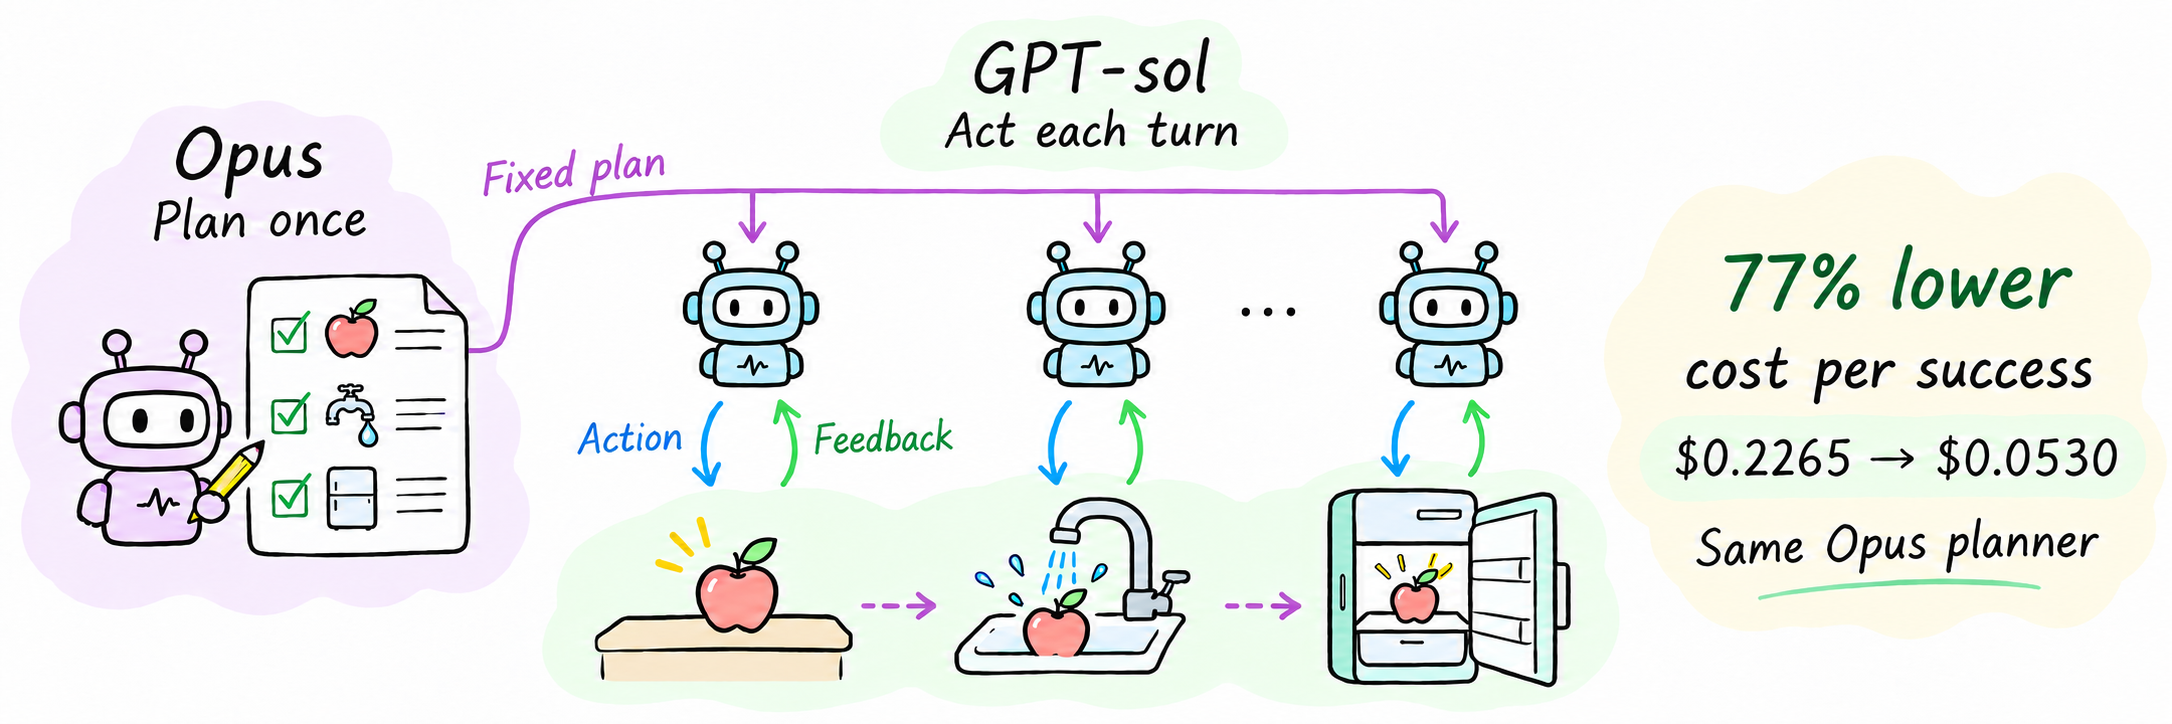
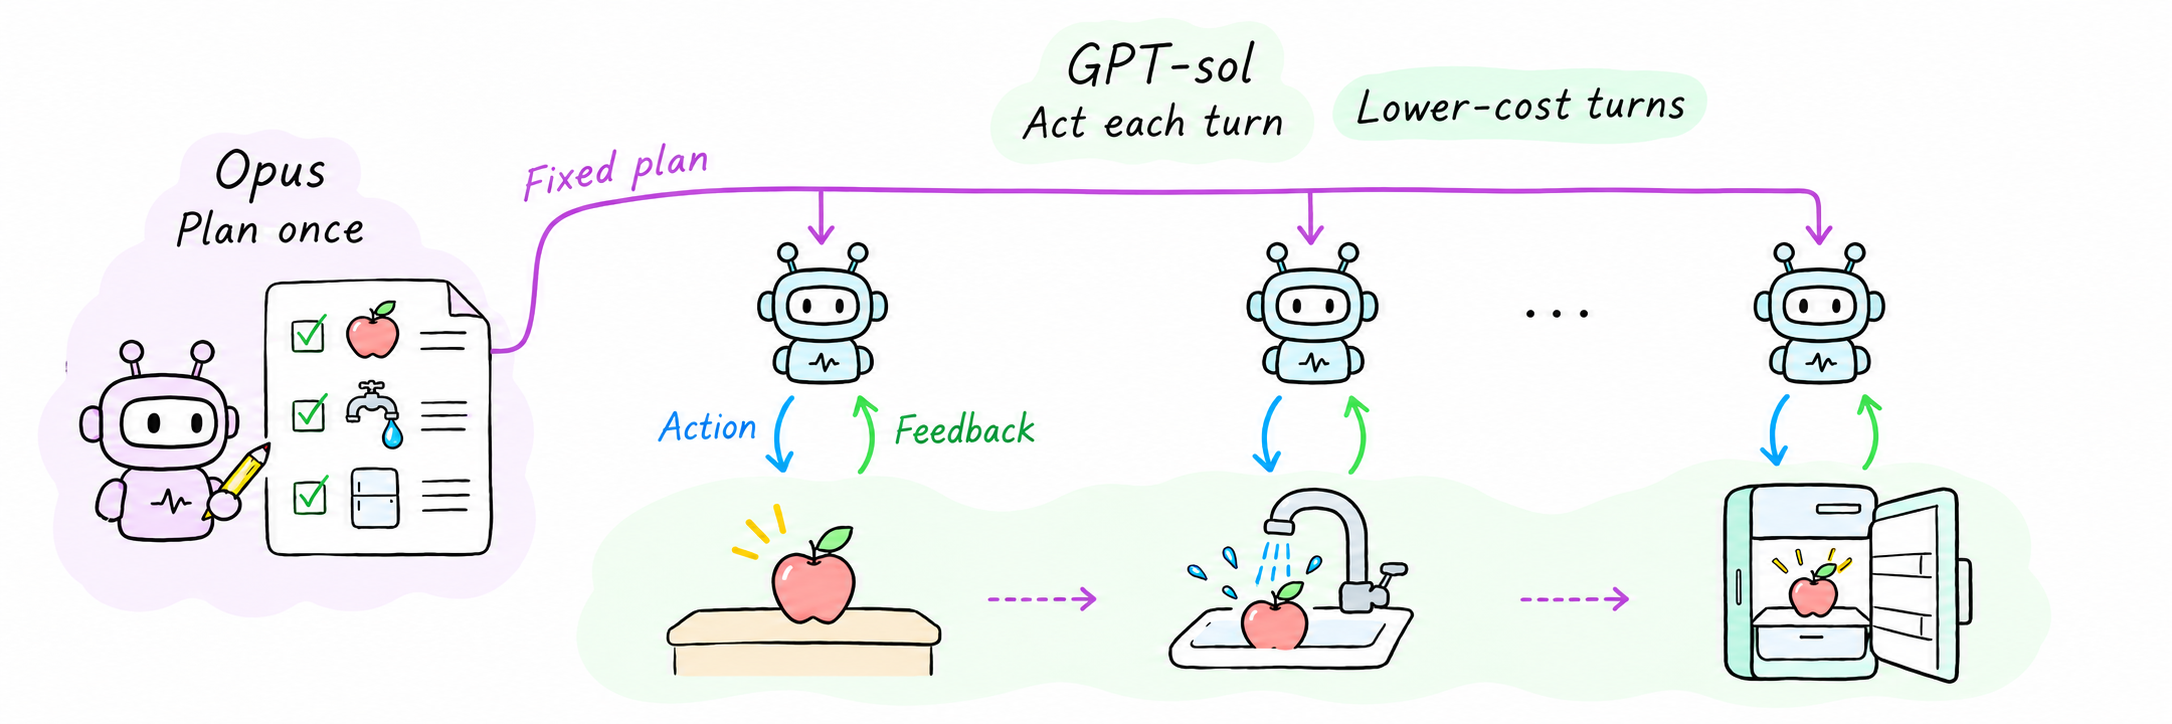
Make the overview a mechanism-only illustration

diff --git a/README.md b/README.md
@@ -10,7 +10,7 @@
 </div>
 
 <p align="center">
-  <img src="figures/intuition.png" width="96%" alt="Opus writes one fixed plan, and GPT-sol acts and receives feedback at each turn. With the same Opus planner, cost per success is $0.2265 with an Opus executor and $0.0530 with a GPT-sol executor.">
+  <img src="figures/intuition.png" width="96%" alt="Opus writes a plan at reset. GPT-sol reuses it while acting and receiving feedback at each turn, illustrated by finding, washing, and storing an apple.">
 </p>
 
 ## Overview
